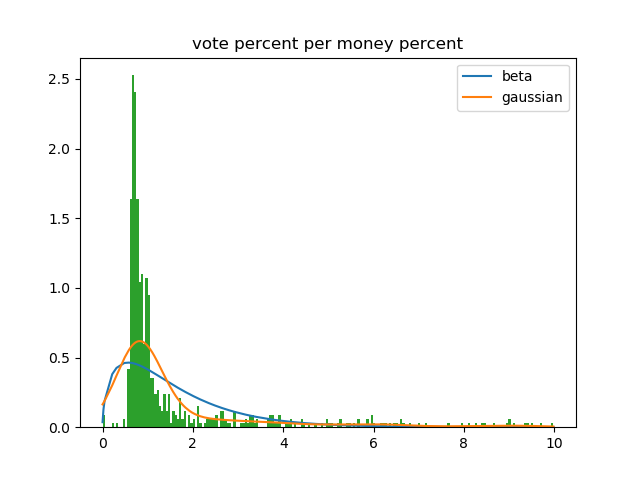
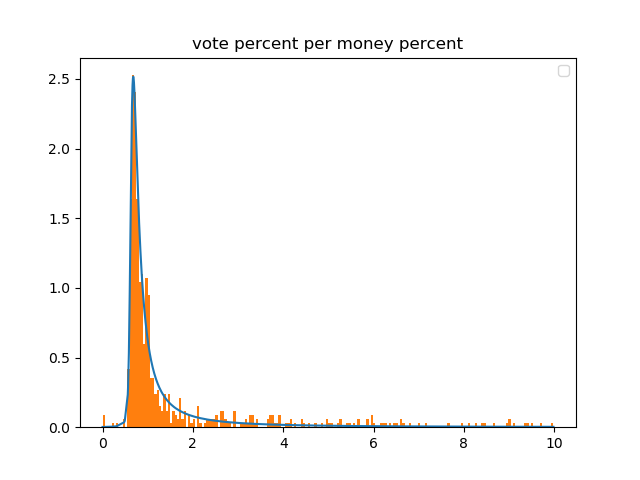
dist

Changed region(s): [[0.1562, 0.1562, 0.875, 0.9062], [0.7812, 0.125, 0.875, 0.2188], [0.7188, 0.1562, 0.75, 0.2188]]

diff --git a/real_data.py b/real_data.py
@@ -7,7 +7,8 @@ import csv
 from collections import defaultdict
 import matplotlib.pyplot as plt
 import numpy as np
-from scipy import stats
+import scipy.stats as st
+import warnings
 
 def get_cands_votes(): 
     '''
@@ -92,6 +93,45 @@ def organize_data():
                     cands[cand]['vote %'], money_percent, rep[cands[cand]['state']+district]])
     file.close()
 
+def find_best_fit(data): 
+    '''
+    Based on "Distribution Fitting with Sum of Square Error (SSE)"
+    https://stackoverflow.com/questions/6620471/fitting-empirical-distribution-to-theoretical-ones-with-scipy-python
+    '''
+    print "Finding best fit..."
+    y, x = np.histogram(data, bins=200, density=True)
+    x = (x + np.roll(x, -1))[:-1] / 2.0
+    all_dists = [
+        st.alpha,st.anglit,st.arcsine,st.beta,st.betaprime,st.bradford,st.burr,st.cauchy,st.chi,st.chi2,st.cosine,
+        st.dgamma,st.dweibull,st.erlang,st.expon,st.exponnorm,st.exponweib,st.exponpow,st.f,st.fatiguelife,st.fisk,
+        st.foldcauchy,st.foldnorm,st.frechet_r,st.frechet_l,st.genlogistic,st.genpareto,st.gennorm,st.genexpon,
+        st.genextreme,st.gausshyper,st.gamma,st.gengamma,st.genhalflogistic,st.gilbrat,st.gompertz,st.gumbel_r,
+        st.gumbel_l,st.halfcauchy,st.halflogistic,st.halfnorm,st.halfgennorm,st.hypsecant,st.invgamma,st.invgauss,
+        st.invweibull,st.johnsonsb,st.johnsonsu,st.ksone,st.kstwobign,st.laplace,st.levy,st.levy_l,st.levy_stable,
+        st.logistic,st.loggamma,st.loglaplace,st.lognorm,st.lomax,st.maxwell,st.mielke,st.nakagami,st.ncx2,st.ncf,
+        st.nct,st.norm,st.pareto,st.pearson3,st.powerlaw,st.powerlognorm,st.powernorm,st.rdist,st.reciprocal,
+        st.rayleigh,st.rice,st.recipinvgauss,st.semicircular,st.t,st.triang,st.truncexpon,st.truncnorm,st.tukeylambda,
+        st.uniform,st.vonmises,st.vonmises_line,st.wald,st.weibull_min,st.weibull_max,st.wrapcauchy
+    ]
+    best_distribution = st.norm
+    best_params = (0.0, 1.0)
+    best_sse = np.inf
+    for d in all_dists:
+        try:
+            with warnings.catch_warnings():
+                warnings.filterwarnings('ignore')
+                params = d.fit(data)
+                pdf = d.pdf(x, loc=params[-2], scale=params[-1], *params[:-2])
+                sse = np.sum(np.power(y - pdf, 2.0)) # sum of square error
+                if best_sse > sse > 0:
+                    best_distribution = d
+                    best_params = params
+                    best_sse = sse
+        except Exception:
+            pass
+    print "Got best fit..."
+    return (best_distribution.name, best_params)
+
 def visualize_relationships(): 
     votes = []
     money = []
@@ -114,10 +154,15 @@ def visualize_relationships():
     x = np.array(votes) / np.array(money)
     x = x[~np.isinf(x)]
     x = x[x < 10] # remove outliers
-    a, b, loc, scale = stats.beta.fit(x)
-    plt.plot(sorted(x), stats.beta.pdf(sorted(x), a, b, loc, scale), label='beta')
-    nparam_density = stats.kde.gaussian_kde(x)
-    plt.plot(sorted(x), nparam_density(sorted(x)), label='gaussian')
+    np.save('./data/vote_per_money.npy', x)
+    best_fit_name, best_fit_params = find_best_fit(x)
+    print "Best fit for vote_per_money:", best_fit_name, best_fit_params
+    best_dist = getattr(st, best_fit_name)
+    plt.plot(sorted(x), best_dist.pdf(sorted(x), loc=best_fit_params[-2], scale=best_fit_params[-1], *best_fit_params[:-2]))
+    #a, b, loc, scale = st.beta.fit(x)
+    #plt.plot(sorted(x), st.beta.pdf(sorted(x), a, b, loc, scale), label='beta')
+    #nparam_density = st.kde.gaussian_kde(x)
+    #plt.plot(sorted(x), nparam_density(sorted(x)), label='gaussian')
     plt.hist(x, density=True, bins=200)
     plt.legend()
     plt.savefig('./data/vote_per_money.png')
@@ -134,10 +179,15 @@ def visualize_relationships():
     x = np.array(poll) / np.array(votes)
     x = x[~np.isinf(x)]
     x = x[x < 10] # remove outliers
-    a, b, loc, scale = stats.beta.fit(x)
-    plt.plot(sorted(x), stats.beta.pdf(sorted(x), a, b, loc, scale), label='beta')
-    nparam_density = stats.kde.gaussian_kde(x)
-    plt.plot(sorted(x), nparam_density(sorted(x)), label='gaussian')
+    np.save('./data/poll_per_vote.npy', x)
+    best_fit_name, best_fit_params = find_best_fit(x)
+    print "Best fit for poll per vote:", best_fit_name, best_fit_params
+    best_dist = getattr(st, best_fit_name)
+    plt.plot(sorted(x), best_dist.pdf(sorted(x), loc=best_fit_params[-2], scale=best_fit_params[-1], *best_fit_params[:-2]))
+    #a, b, loc, scale = st.beta.fit(x)
+    #plt.plot(sorted(x), st.beta.pdf(sorted(x), a, b, loc, scale), label='beta')
+    #nparam_density = st.kde.gaussian_kde(x)
+    #plt.plot(sorted(x), nparam_density(sorted(x)), label='gaussian')
     plt.hist(x, density=True, bins=100)
     plt.legend()
     plt.savefig('./data/poll_per_vote.png')

diff --git a/gamemaker.py b/gamemaker.py
@@ -1,7 +1,8 @@
 from donor import Donor
 from election import Election
 
-INITIAL_FUNDS = 1000000 
+INITIAL_FUNDS = 1000000
+# choose a new mean for every race
 election = Election(10, 0.01, 0.000003, .45)
 donor = Donor(INITIAL_FUNDS)
 
@@ -14,19 +15,19 @@ def calculateScore(won, donor):
 i = 0
 while(election.n_rounds != 0):
 	poll = election.generatePoll()
-	print("In round " + str(i) + ", candadite had " + str(round(poll, 2)) + " vote share")
+	print("In round " + str(i) + ", candidate had " + str(round(poll, 2)) + " vote share")
 	contribution = donor.makeContribution(poll)
 	election.updateSupport(contribution)
 	i += 1
 
 election_result = election.runElection()
-print("Result: candadite recived " + str(round(election_result, 2)) + " vote share")
+print("Result: candidate recived " + str(round(election_result, 2)) + " vote share")
 if(election_result > 0.5):
 	won = True
-	print("Candidite won")
+	print("Candidate won")
 else:
 	won = False
-	print("Candidite lost")
+	print("Candidate lost")
 
 calculateScore(won, donor)
 
